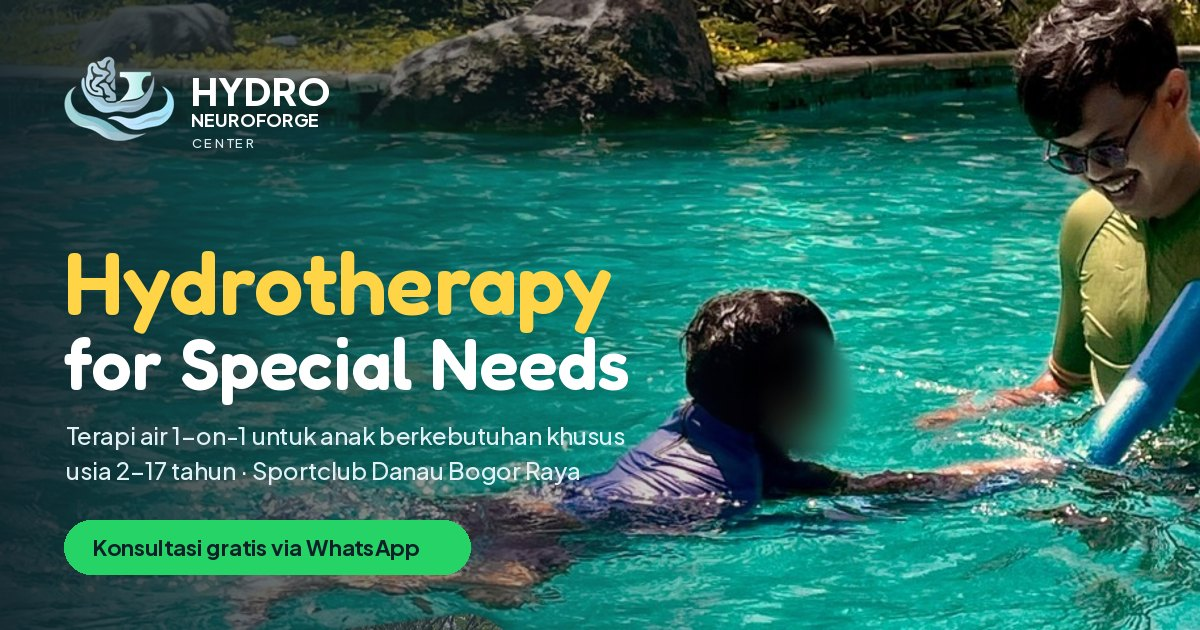
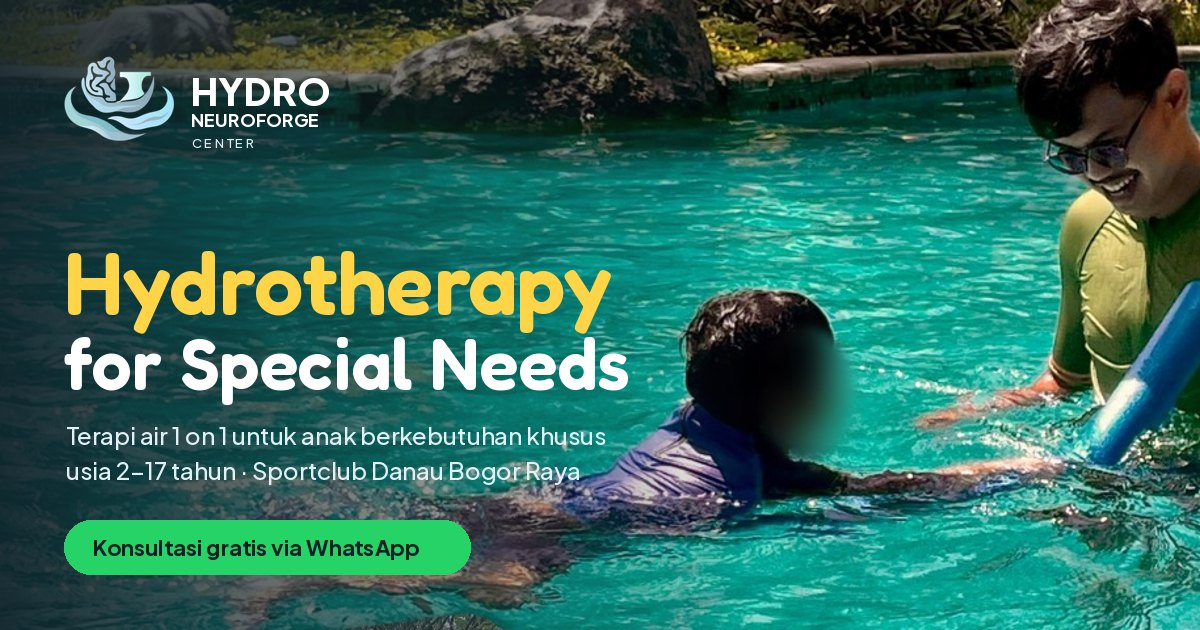
revisi 3: hapus semua tanda pisah, 1-on-1 jadi 1 on 1, teks FAQ alur mulai

Changed region(s): [[0.1542, 0.6635, 0.5242, 0.7238]]

diff --git a/src/content/site.ts b/src/content/site.ts
@@ -69,7 +69,7 @@ export const site = {
   },
 
   program: {
-    name: 'Program Hydrotherapy 1-on-1',
+    name: 'Program Hydrotherapy 1 on 1',
     price: 'Rp1.000.000',
     period: '/ bulan',
     perSession: 'Setara Rp250 ribu per sesi',
@@ -128,7 +128,7 @@ export const site = {
     },
     {
       title: 'Sesi rutin dimulai',
-      text: 'Sesi privat 1-on-1 selama 60 menit, seminggu sekali, dengan perkembangan yang dipantau bersama orang tua.',
+      text: 'Sesi privat 1 on 1 selama 60 menit, seminggu sekali, dengan perkembangan yang dipantau bersama orang tua.',
     },
   ],
 
@@ -136,7 +136,7 @@ export const site = {
     title: 'Air yang menenangkan, otak yang bertumbuh',
     paragraphs: [
       'Program kami berlandaskan riset Center on the Developing Child, Harvard University tentang perkembangan otak anak: koneksi saraf terbentuk dan menguat lewat pengalaman yang berulang, hubungan yang hangat, dan lingkungan yang aman.',
-      'Air adalah ruang belajar yang unik. Daya apung, tekanan, dan suhunya memberi rangsangan sensorik yang kaya sekaligus menenangkan — sehingga anak lebih siap menerima stimulasi dan melatih kemampuan barunya, satu langkah kecil setiap minggu.',
+      'Air adalah ruang belajar yang unik. Daya apung, tekanan, dan suhunya memberi rangsangan sensorik yang kaya sekaligus menenangkan, sehingga anak lebih siap menerima stimulasi dan melatih kemampuan barunya, satu langkah kecil setiap minggu.',
     ],
     pillars: [
       { k: '1 : 1', v: 'Satu anak, satu terapis' },
@@ -229,15 +229,15 @@ export const site = {
   faq: [
     {
       q: 'Anak saya takut air, apakah tetap bisa ikut?',
-      a: 'Bisa. Banyak anak kami awalnya takut air. Terapis memulai dengan pengenalan bertahap — bermain di tepi, menyentuh air, lalu masuk perlahan — mengikuti kesiapan anak, tanpa paksaan.',
+      a: 'Bisa. Banyak anak kami awalnya takut air. Terapis memulai dengan pengenalan bertahap: bermain di tepi, menyentuh air, lalu masuk perlahan, mengikuti kesiapan anak tanpa paksaan.',
     },
     {
       q: 'Bagaimana alur untuk mulai?',
-      a: 'Hubungi kami via WhatsApp untuk konsultasi gratis. Setelah itu kita jadwalkan observasi tatap muka (berbayar) untuk mengenal anak dan menentukan materi. Sesi rutin dimulai setelah observasi.',
+      a: 'Hubungi kami via WhatsApp untuk konsultasi gratis. Setelah itu kita jadwalkan observasi untuk mengenal anak dan menentukan materi. Sesi rutin dimulai setelah observasi.',
     },
     {
       q: 'Berapa biayanya?',
-      a: 'Paket rutin Rp1.000.000 per bulan untuk 4 sesi privat 1-on-1 (seminggu sekali, 60 menit). Biaya observasi awal akan kami informasikan via WhatsApp.',
+      a: 'Paket rutin Rp1.000.000 per bulan untuk 4 sesi privat 1 on 1 (seminggu sekali, 60 menit). Biaya observasi awal akan kami informasikan via WhatsApp.',
     },
     {
       q: 'Usia berapa yang bisa ikut?',
@@ -245,7 +245,7 @@ export const site = {
     },
     {
       q: 'Apakah aman? Bagaimana pengawasannya?',
-      a: 'Setiap sesi bersifat 1-on-1 — satu terapis fokus mendampingi satu anak sepanjang sesi, dengan alat bantu apung sesuai kebutuhan.',
+      a: 'Setiap sesi bersifat 1 on 1. Satu terapis fokus mendampingi satu anak sepanjang sesi, dengan alat bantu apung sesuai kebutuhan.',
     },
     {
       q: 'Apakah bisa dikombinasikan dengan terapi lain?',
@@ -257,7 +257,7 @@ export const site = {
     },
     {
       q: 'Kapan perkembangan mulai terlihat?',
-      a: 'Setiap anak berbeda. Banyak orang tua melihat perubahan kecil — lebih tenang, lebih kooperatif — dalam beberapa minggu. Konsistensi sesi mingguan adalah kuncinya.',
+      a: 'Setiap anak berbeda. Banyak orang tua melihat perubahan kecil, seperti lebih tenang dan lebih kooperatif, dalam beberapa minggu. Konsistensi sesi mingguan adalah kuncinya.',
     },
   ],
 

diff --git a/index.html b/index.html
@@ -4,8 +4,8 @@
     <meta charset="UTF-8" />
     <script>(function(d){d.classList.add("js");try{var s=localStorage.getItem("hnc-calm");if(s==="1"||(s===null&&matchMedia("(prefers-reduced-motion: reduce)").matches))d.classList.add("calm")}catch(e){}setTimeout(function(){if(!window.__hncReady)d.classList.remove("js")},4000)})(document.documentElement)</script>
     <meta name="viewport" content="width=device-width, initial-scale=1, viewport-fit=cover" />
-    <title>Hydro Neuroforge Center — Hydrotherapy untuk Anak Berkebutuhan Khusus di Bogor</title>
-    <meta name="description" content="Hydrotherapy 1-on-1 untuk anak berkebutuhan khusus usia 2–17 tahun di Sportclub Danau Bogor Raya. Berlandaskan riset Center on the Developing Child, Harvard University. Konsultasi gratis via WhatsApp." />
+    <title>Hydro Neuroforge Center | Hydrotherapy untuk Anak Berkebutuhan Khusus di Bogor</title>
+    <meta name="description" content="Hydrotherapy 1 on 1 untuk anak berkebutuhan khusus usia 2–17 tahun di Sportclub Danau Bogor Raya. Berlandaskan riset Center on the Developing Child, Harvard University. Konsultasi gratis via WhatsApp." />
     <link rel="canonical" href="https://hydroneuroforge.io/" />
     <meta name="theme-color" content="#0F2028" />
     <link rel="icon" type="image/png" sizes="32x32" href="/favicon-32.png" />
@@ -15,8 +15,8 @@
     <meta property="og:type" content="website" />
     <meta property="og:locale" content="id_ID" />
     <meta property="og:site_name" content="Hydro Neuroforge Center" />
-    <meta property="og:title" content="Hydro Neuroforge Center — Hydrotherapy for Special Needs" />
-    <meta property="og:description" content="Terapi air 1-on-1 untuk membantu perkembangan otak, emosi & motorik anak berkebutuhan khusus. Bogor." />
+    <meta property="og:title" content="Hydro Neuroforge Center | Hydrotherapy for Special Needs" />
+    <meta property="og:description" content="Terapi air 1 on 1 untuk membantu perkembangan otak, emosi & motorik anak berkebutuhan khusus. Bogor." />
     <meta property="og:url" content="https://hydroneuroforge.io/" />
     <meta property="og:image" content="https://hydroneuroforge.io/og-image.jpg" />
     <meta property="og:image:width" content="1200" />
@@ -29,7 +29,7 @@
         "@type": ["MedicalBusiness", "LocalBusiness"],
         "name": "Hydro Neuroforge Center",
         "alternateName": "Hydro Neuroforge Centre (Terapi Neurosensori ABK)",
-        "description": "Hydrotherapy 1-on-1 untuk anak berkebutuhan khusus usia 2–17 tahun.",
+        "description": "Hydrotherapy 1 on 1 untuk anak berkebutuhan khusus usia 2–17 tahun.",
         "url": "https://hydroneuroforge.io/",
         "telephone": "+62-881-0802-19722",
         "image": "https://hydroneuroforge.io/og-image.jpg",

diff --git a/hydrotherapy/index.html b/hydrotherapy/index.html
@@ -4,8 +4,8 @@
     <meta charset="UTF-8" />
     <script>(function(d){d.classList.add("js");try{var s=localStorage.getItem("hnc-calm");if(s==="1"||(s===null&&matchMedia("(prefers-reduced-motion: reduce)").matches))d.classList.add("calm")}catch(e){}setTimeout(function(){if(!window.__hncReady)d.classList.remove("js")},4000)})(document.documentElement)</script>
     <meta name="viewport" content="width=device-width, initial-scale=1, viewport-fit=cover" />
-    <title>Hydrotherapy Anak Berkebutuhan Khusus di Bogor — Konsultasi Gratis | Hydro Neuroforge Center</title>
-    <meta name="description" content="Bantu si kecil lebih tenang, fokus & percaya diri lewat terapi air 1-on-1. Usia 2–17 tahun. Sportclub Danau Bogor Raya. Konsultasi gratis via WhatsApp." />
+    <title>Hydrotherapy Anak Berkebutuhan Khusus di Bogor, Konsultasi Gratis | Hydro Neuroforge Center</title>
+    <meta name="description" content="Bantu si kecil lebih tenang, fokus & percaya diri lewat terapi air 1 on 1. Usia 2–17 tahun. Sportclub Danau Bogor Raya. Konsultasi gratis via WhatsApp." />
     <!-- Halaman khusus iklan: tidak diindeks agar tidak bersaing dengan beranda -->
     <meta name="robots" content="noindex, follow" />
     <link rel="canonical" href="https://hydroneuroforge.io/" />
@@ -17,7 +17,7 @@
     <meta property="og:locale" content="id_ID" />
     <meta property="og:site_name" content="Hydro Neuroforge Center" />
     <meta property="og:title" content="Anak Lebih Tenang, Fokus & Percaya Diri Lewat Terapi Air" />
-    <meta property="og:description" content="Hydrotherapy 1-on-1 untuk anak berkebutuhan khusus usia 2–17 tahun di Bogor. Konsultasi gratis via WhatsApp." />
+    <meta property="og:description" content="Hydrotherapy 1 on 1 untuk anak berkebutuhan khusus usia 2–17 tahun di Bogor. Konsultasi gratis via WhatsApp." />
     <meta property="og:url" content="https://hydroneuroforge.io/hydrotherapy" />
     <meta property="og:image" content="https://hydroneuroforge.io/og-image.jpg" />
     <meta name="twitter:card" content="summary_large_image" />

diff --git a/src/pages/HomePage.tsx b/src/pages/HomePage.tsx
@@ -218,7 +218,7 @@ export function HomePage() {
         {/* ============ GALERI ============ */}
         <section data-depth="-15" data-pitch="16" data-brain="0" className="py-20">
           <div className="px-5">
-            <SectionTitle eyebrow="Suasana" title="Kolam yang asri & menenangkan" sub={`${site.location.name} — dikelilingi pepohonan, teduh, dan jauh dari bising kota.`} />
+            <SectionTitle eyebrow="Suasana" title="Kolam yang asri & menenangkan" sub={`${site.location.name}, dikelilingi pepohonan, teduh, dan jauh dari bising kota.`} />
           </div>
           <Gallery />
           <p className="mt-2 px-5 text-center text-xs text-white/55">Ketuk foto untuk memperbesar · Wajah anak diburamkan untuk menjaga privasi.</p>
@@ -245,7 +245,7 @@ export function HomePage() {
               <span className="eyebrow bg-navy/60 text-wa ring-1 ring-wa/30">Daftar sekarang</span>
               <h2 className="mt-4 text-[34px] leading-[1.08] font-semibold sm:text-5xl">Ceritakan tentang si kecil</h2>
               <p className="mt-4 text-[16.5px] leading-relaxed text-white/75">
-                Isi formulir singkat ini — WhatsApp akan terbuka dengan pesan yang sudah tersusun rapi. Tim kami akan membalas untuk konsultasi gratis & menjadwalkan observasi.
+                Isi formulir singkat ini, lalu WhatsApp akan terbuka dengan pesan yang sudah tersusun rapi. Tim kami akan membalas untuk konsultasi gratis & menjadwalkan observasi.
               </p>
               <ul className="mt-6 grid gap-2 text-sm text-white/80">
                 <li className="flex items-center gap-2"><Check className="size-4 text-wa" aria-hidden="true" /> Gratis konsultasi via WhatsApp</li>

diff --git a/src/pages/LandingPage.tsx b/src/pages/LandingPage.tsx
@@ -63,7 +63,7 @@ export function LandingPage() {
                 Anak Lebih <span className="text-sun">Tenang</span>, Fokus & Percaya Diri Lewat Terapi Air
               </h1>
               <p className="mt-4 animate-[fade-up_.9s_.35s_both] text-[17px] leading-relaxed text-white/90">
-                Hydrotherapy 1-on-1 untuk anak berkebutuhan khusus usia 2–17 tahun di Sportclub Danau Bogor Raya.
+                Hydrotherapy 1 on 1 untuk anak berkebutuhan khusus usia 2–17 tahun di Sportclub Danau Bogor Raya.
               </p>
               <WaLink place="lp-hero" className="btn-wa mt-6 w-full animate-[fade-up_.9s_.5s_both] text-[16.5px] sm:w-auto">
                 <WaIcon /> Konsultasi Gratis via WhatsApp
@@ -82,7 +82,7 @@ export function LandingPage() {
 
         {/* ============ MANFAAT ============ */}
         <section className="px-5 py-12">
-          <Title eyebrow="Manfaat" sub="Hydrotherapy for Special Needs — berlandaskan riset Center on the Developing Child, Harvard University.">
+          <Title eyebrow="Manfaat" sub="Hydrotherapy for Special Needs, berlandaskan riset Center on the Developing Child, Harvard University.">
             Apa yang dilatih di dalam air?
           </Title>
           <div className="mx-auto grid max-w-5xl grid-cols-2 gap-3 sm:gap-5 lg:grid-cols-4">

diff --git a/kebijakan-privasi/index.html b/kebijakan-privasi/index.html
@@ -4,7 +4,7 @@
     <meta charset="UTF-8" />
     <script>(function(d){d.classList.add("js");try{var s=localStorage.getItem("hnc-calm");if(s==="1"||(s===null&&matchMedia("(prefers-reduced-motion: reduce)").matches))d.classList.add("calm")}catch(e){}setTimeout(function(){if(!window.__hncReady)d.classList.remove("js")},4000)})(document.documentElement)</script>
     <meta name="viewport" content="width=device-width, initial-scale=1, viewport-fit=cover" />
-    <title>Kebijakan Privasi — Hydro Neuroforge Center</title>
+    <title>Kebijakan Privasi | Hydro Neuroforge Center</title>
     <meta name="description" content="Kebijakan privasi website Hydro Neuroforge Center." />
     <link rel="canonical" href="https://hydroneuroforge.io/kebijakan-privasi" />
     <meta name="theme-color" content="#0F2028" />

diff --git a/404.html b/404.html
@@ -4,7 +4,7 @@
     <meta charset="UTF-8" />
     <script>(function(d){d.classList.add("js");try{var s=localStorage.getItem("hnc-calm");if(s==="1"||(s===null&&matchMedia("(prefers-reduced-motion: reduce)").matches))d.classList.add("calm")}catch(e){}setTimeout(function(){if(!window.__hncReady)d.classList.remove("js")},4000)})(document.documentElement)</script>
     <meta name="viewport" content="width=device-width, initial-scale=1, viewport-fit=cover" />
-    <title>Halaman tidak ditemukan — Hydro Neuroforge Center</title>
+    <title>Halaman tidak ditemukan | Hydro Neuroforge Center</title>
     <meta name="robots" content="noindex" />
     <meta name="theme-color" content="#2EC4D6" />
     <link rel="icon" type="image/png" sizes="32x32" href="/favicon-32.png" />

diff --git a/src/components/Header.tsx b/src/components/Header.tsx
@@ -27,7 +27,7 @@ export function Header() {
   return (
     <header className={`fixed inset-x-0 top-0 z-50 transition-colors duration-300 ${solid || open ? 'bg-navy/85 shadow-lg backdrop-blur-md' : 'bg-gradient-to-b from-navy/60 to-transparent'}`}>
       <div className="mx-auto flex h-16 max-w-6xl items-center justify-between gap-3 px-4 md:h-[72px] md:px-5">
-        <a href="/" aria-label="Hydro Neuroforge Center — beranda">
+        <a href="/" aria-label="Hydro Neuroforge Center, beranda">
           <span className="md:hidden"><Logo tone="light" size="sm" /></span>
           <span className="hidden md:block"><Logo tone="light" /></span>
         </a>

diff --git a/src/pages/PrivacyPage.tsx b/src/pages/PrivacyPage.tsx
@@ -47,7 +47,7 @@ export function PrivacyPage() {
 
           <h2>Kontak</h2>
           <p>
-            {site.name} — {site.location.name}, {site.location.city}. WhatsApp {site.contact.whatsappDisplay}, Instagram @{site.contact.instagram}.
+            {site.name}, {site.location.name}, {site.location.city}. WhatsApp {site.contact.whatsappDisplay}, Instagram @{site.contact.instagram}.
           </p>
         </article>
       </main>

diff --git a/AGENTS.md b/AGENTS.md
@@ -39,6 +39,7 @@ Jangan mengubah `scripts/`, `vite.config.ts`, `vercel.json`, atau `package.json`
 - Jangan memakai kata **"menyembuhkan"**. Gunakan "membantu", "mendukung", "menstimulasi".
 - Nama brand di web: **Hydro Neuroforge Center** (ejaan *Center*).
 - Bahasa: Indonesia, hangat, sapaan "Ayah/Bunda".
+- **Jangan memakai tanda pisah panjang (—)** di teks website; gunakan koma/titik. Tulis **"1 on 1"** (tanpa tanda hubung), bukan "1-on-1".
 - Konsultasi WhatsApp **gratis**; observasi tatap muka **berbayar** (sudah termasuk konsultasi langsung).
 
 ## 4. Alur kerja setiap perubahan

diff --git a/docs/PRD.md b/docs/PRD.md
@@ -407,3 +407,7 @@ Semuanya bisa ditambahkan di versi berikutnya.
 
 ### Revisi 2
 - Galeri: foto suasana kolam cukup 1. Susunan masonry dibuat dengan flexbox (bukan CSS `columns`) karena di Safari iPhone ada foto yang tidak tampil.
+
+### Revisi 3
+- Semua tanda — dihapus dari teks website (judul tab & meta juga). "1-on-1" ditulis "1 on 1".
+- FAQ "Bagaimana alur untuk mulai?" memakai teks baru dari pemilik.
